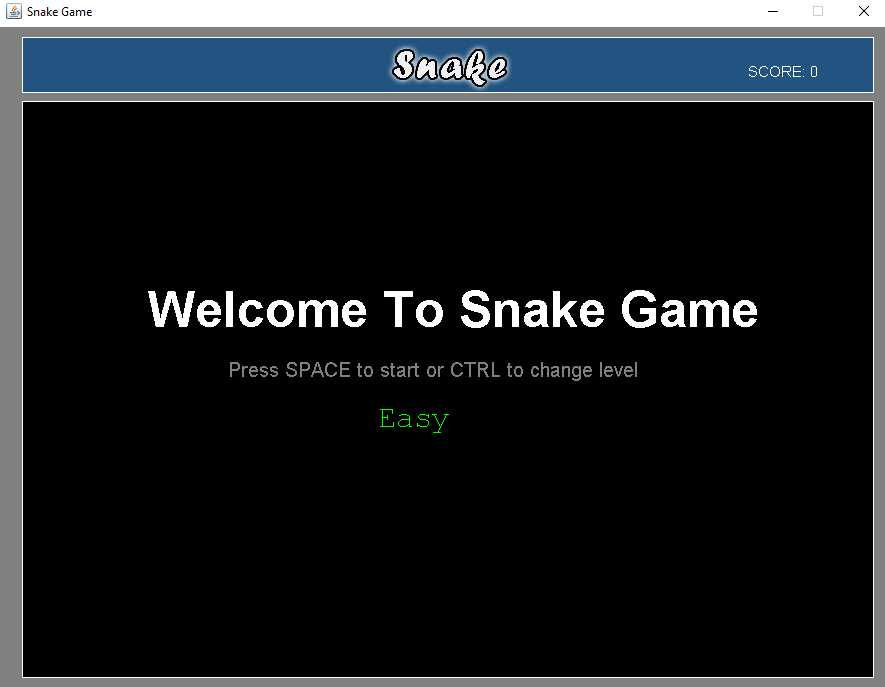
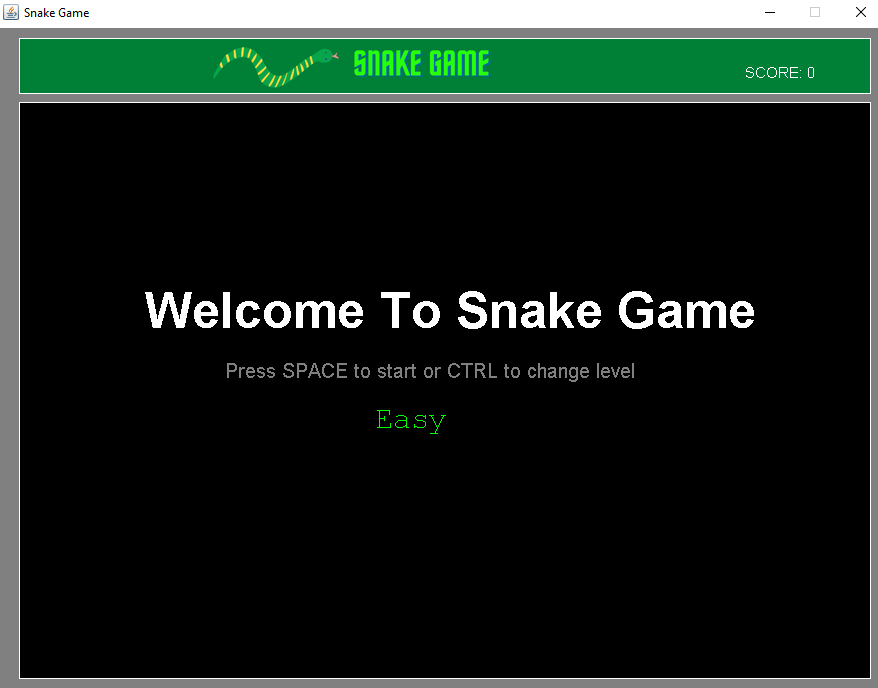
Added pause game function

diff --git a/src/Board.java b/src/Board.java
@@ -37,10 +37,11 @@ public class Board extends JPanel implements ActionListener {
     int[] random_x = {25, 50, 75, 100, 125, 150, 175, 200, 225, 250, 275, 300, 325, 350, 375, 400, 425, 450, 475, 500, 525, 550, 575, 600, 625, 650, 675, 700, 725,750, 775, 800, 825, 850};
     int[] random_y = {75, 100, 125, 150, 175, 200, 225, 250, 275, 300, 325, 350, 375, 400, 425, 450, 475, 500, 525, 550, 575, 600, 625};
 
-    private ImageIcon titleImage = new ImageIcon("./src/resources/assets/snaketitle.jpg");
+    private ImageIcon titleImage = new ImageIcon("./src/resources/assets/snaketitle.png");
 
     int level = 1;
     boolean start = false;
+    boolean pause = false;
 
     Board() {
         addKeyListener(new TAdapter());
@@ -117,7 +118,7 @@ public class Board extends JPanel implements ActionListener {
         g.drawString("SCORE: " + score, 750, 50);
 
 
-        if(inGame) {
+        if(inGame && !pause) {
             g.drawImage(apple, apple_x, apple_y, this);
 
             if(leftDirection) {
@@ -135,6 +136,8 @@ public class Board extends JPanel implements ActionListener {
             }
 
             Toolkit.getDefaultToolkit().sync();
+        }else if(pause) {
+            pauseGame(g);
         }else {
             gameOver(g);
         }
@@ -169,6 +172,16 @@ public class Board extends JPanel implements ActionListener {
         g.setFont(new Font("Monospaced", Font.PLAIN, 30));
         g.drawString(levMsg, 380, 400);
 
+    }
+
+    public void pauseGame(Graphics g) {
+        g.setColor(Color.GREEN);
+        g.setFont(new Font("Arial", Font.BOLD, 50));
+        g.drawString("Game is Paused", 250, 300);
+
+        g.setColor(Color.GRAY);
+        g.setFont(new Font("Arial", Font.PLAIN, 20));
+        g.drawString("Press SPACE to resume", 350, 350);
     }
 
     public void checkCollision() {
@@ -276,6 +289,8 @@ public class Board extends JPanel implements ActionListener {
             if(key == KeyEvent.VK_SPACE && !inGame) {
                 inGame = true;
                 start = true;
+            }else if(key == KeyEvent.VK_SPACE && inGame) {
+                pause = pause ? false : true;
             }
 
             if(key == KeyEvent.VK_CONTROL && !inGame) {

diff --git a/README.md b/README.md
@@ -5,15 +5,19 @@
  <ul>
   <li>Created popular snake game using Java.</li>
   <li>Added different levels in game to make it interesting.</li>
-  <li>Bigger snake size and playing window.</li>
+  <li>Added pause/resume functionality.</li>
+  <li>You can also view your score while playing the game.</li>
  </ul>
 
 
 <h3>Screenshots</h3>
  <p align="center">
-  <img src="\src\resources\assets\s1.png" title="Application" alt="Application">
+  <img src="/src/resources/assets/s1.png" width="500" title="Application" alt="Application">
   <br><br>
-  <img src="\src\resources\assets\s2.png"title="Playing Game" alt="Gameplay">
+  <img src="/src/resources/assets/s2.png" width="500" title="Playing Game" alt="Gameplay">
   <br><br>
-  <img src="\src\resources\assets\s3.png"title="Game over" alt="Gameover">
+  <img src="/src/resources/assets/s3.png" width="500" title="Game Paused" alt="Game paused">
+  <br><br>
+  <img src="/src/resources/assets/s4.png" width="500" title="Game over" alt="Game over">
  </p>
+
